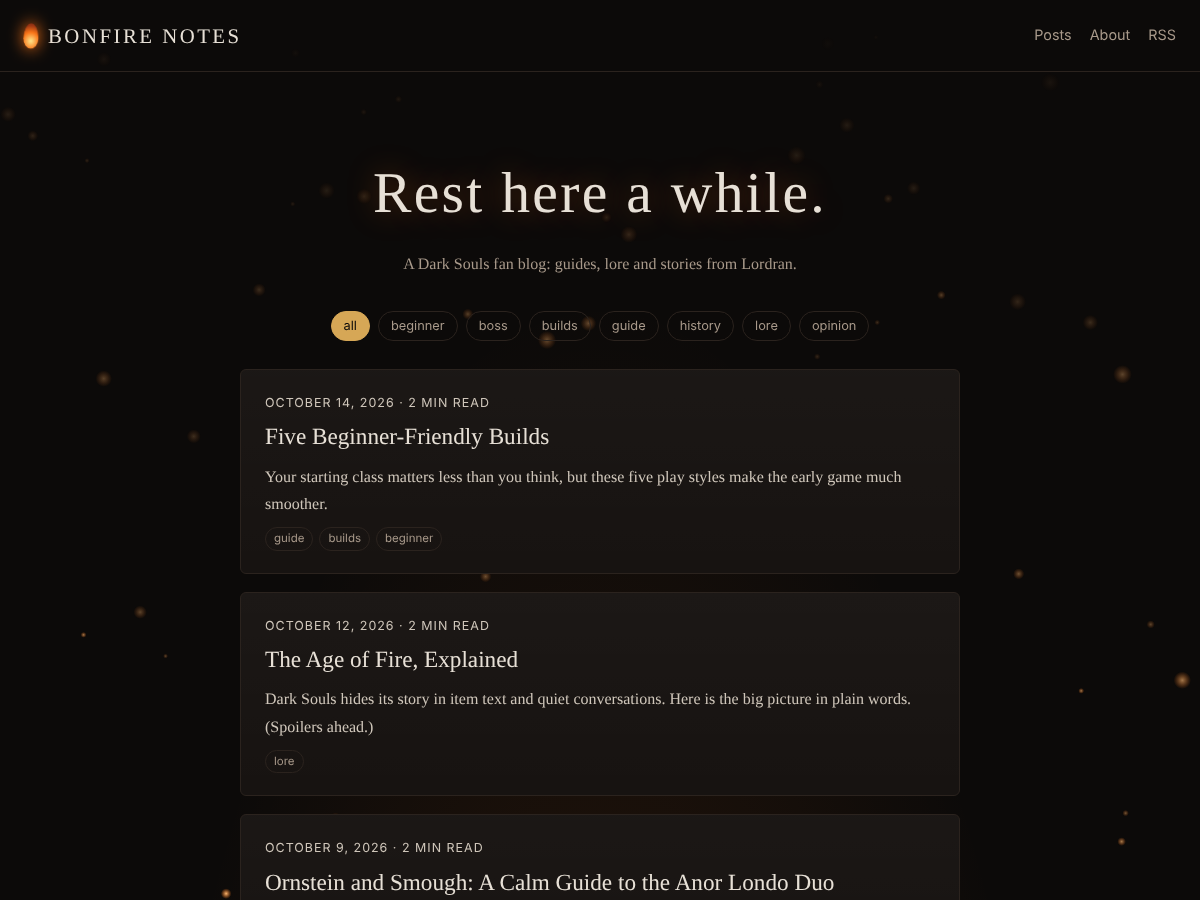
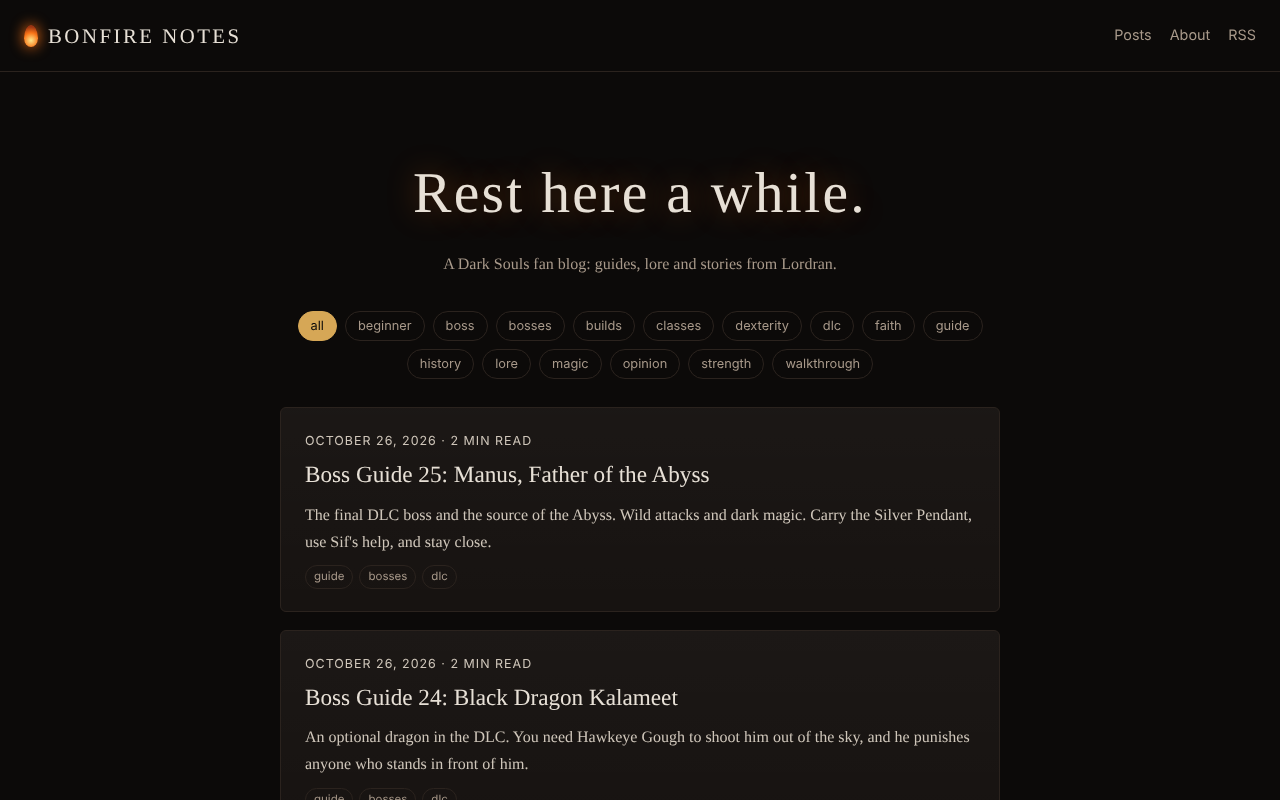
Finish the guides hub: every class, area and boss in route order
The hub now lists all ten class builds, the full route from the Asylum to
Gwyn, and the DLC. README and screenshots updated.

diff --git a/docs/tags/guide.html b/docs/tags/guide.html
@@ -360,7 +360,7 @@
     <article class="card">
       <p class="meta"><time datetime="2026-10-15">October 15, 2026</time> · 6 min read</p>
       <h2><a href="../posts/lordran-guide-hub.html">Start Here: Lordran Guides Hub</a></h2>
-      <p>Every guide on Bonfire Notes in one place, in the order you&#39;ll need them: a build for every starting class, area walkthroughs and boss guides.</p>
+      <p>Every guide on Bonfire Notes in one place, in the order you&#39;ll need them: a build for every starting class, all 20 area walkthroughs and all 25 boss guides, DLC included.</p>
       <p class="tags"><a href="../tags/guide.html" class="tag small">guide</a><a href="../tags/beginner.html" class="tag small">beginner</a></p>
     </article>
     

diff --git a/docs/tags/beginner.html b/docs/tags/beginner.html
@@ -31,7 +31,7 @@
     <article class="card">
       <p class="meta"><time datetime="2026-10-15">October 15, 2026</time> · 6 min read</p>
       <h2><a href="../posts/lordran-guide-hub.html">Start Here: Lordran Guides Hub</a></h2>
-      <p>Every guide on Bonfire Notes in one place, in the order you&#39;ll need them: a build for every starting class, area walkthroughs and boss guides.</p>
+      <p>Every guide on Bonfire Notes in one place, in the order you&#39;ll need them: a build for every starting class, all 20 area walkthroughs and all 25 boss guides, DLC included.</p>
       <p class="tags"><a href="../tags/guide.html" class="tag small">guide</a><a href="../tags/beginner.html" class="tag small">beginner</a></p>
     </article>
     

diff --git a/docs/index.html b/docs/index.html
@@ -363,7 +363,7 @@
     <article class="card">
       <p class="meta"><time datetime="2026-10-15">October 15, 2026</time> · 6 min read</p>
       <h2><a href="./posts/lordran-guide-hub.html">Start Here: Lordran Guides Hub</a></h2>
-      <p>Every guide on Bonfire Notes in one place, in the order you&#39;ll need them: a build for every starting class, area walkthroughs and boss guides.</p>
+      <p>Every guide on Bonfire Notes in one place, in the order you&#39;ll need them: a build for every starting class, all 20 area walkthroughs and all 25 boss guides, DLC included.</p>
       <p class="tags"><a href="./tags/guide.html" class="tag small">guide</a><a href="./tags/beginner.html" class="tag small">beginner</a></p>
     </article>
     

diff --git a/docs/posts/lordran-guide-hub.html b/docs/posts/lordran-guide-hub.html
@@ -4,7 +4,7 @@
   <meta charset="utf-8">
   <meta name="viewport" content="width=device-width, initial-scale=1">
   <title>Start Here: Lordran Guides Hub · Bonfire Notes</title>
-  <meta name="description" content="Every guide on Bonfire Notes in one place, in the order you&#39;ll need them: a build for every starting class, area walkthroughs and boss guides.">
+  <meta name="description" content="Every guide on Bonfire Notes in one place, in the order you&#39;ll need them: a build for every starting class, all 20 area walkthroughs and all 25 boss guides, DLC included.">
   <link rel="stylesheet" href="../static/style.css">
   <link rel="alternate" type="application/rss+xml" title="Bonfire Notes" href="../feed.xml">
 </head>

diff --git a/README.md b/README.md
@@ -6,20 +6,25 @@ A Dark Souls fan blog with beginner guides, boss strategies and plain-language l
 
 **Tech:** Python · Markdown · Jinja2 templates · HTML/CSS · Canvas animation · RSS · `unittest` · GitHub Pages
 
-| Home | Post |
-|---|---|
-| ![Home page](screenshots/home.png) | ![A post](screenshots/post.png) |
+| Home | Guides hub | Boss guide |
+|---|---|---|
+| ![Home page](screenshots/home.png) | ![Guides hub](screenshots/hub.png) | ![A boss guide](screenshots/post.png) |
 
 ## Posts
 
-New: a [guides hub](https://theoyanvno.github.io/bonfire-notes/posts/lordran-guide-hub.html) with four build guides (stats, weapons, armor and rings), walkthroughs of the first four areas and strategies for the first six bosses.
+A full Dark Souls guide, collected in the [guides hub](https://theoyanvno.github.io/bonfire-notes/posts/lordran-guide-hub.html):
+
+- **10 class builds**, one for every starting class: starting stats, weapons, gear and what to level
+- **20 area walkthroughs**, from the Northern Undead Asylum to the Kiln of the First Flame, plus the Artorias of the Abyss DLC
+- **25 boss guides** with each boss's attacks, how to dodge them and a step-by-step strategy
+
+Old build links forward to the new class guides, so bookmarks keep working.
 
 
 - **Why Dark Souls Still Matters**: world design, fair difficulty and its legacy
 - **Your First Hours in Lordran**: 10 beginner tips
 - **Ornstein and Smough**: a calm guide to the Anor Londo duo
 - **The Age of Fire, Explained**: the main story in plain words (spoilers)
-- **Five Beginner-Friendly Builds**: Knight, Pyromancer, Strength, Dexterity and Sorcerer
 
 ## Features
 
@@ -36,7 +41,7 @@ New: a [guides hub](https://theoyanvno.github.io/bonfire-notes/posts/lordran-gui
 | [`build.py`](build.py) | Reads `posts/*.md`, parses front matter, converts Markdown to HTML, renders templates and writes the site to `docs/` |
 | [`templates/`](templates) | Jinja templates: shared layout, post list, post page, About page |
 | [`static/`](static) | Stylesheet and the ember/progress-bar script |
-| [`tests/test_build.py`](tests/test_build.py) | Tests for front matter, slugs, reading time and a full build |
+| [`tests/test_build.py`](tests/test_build.py) | Tests for front matter, slugs, reading time, a full build, moved-post redirects and links between posts |
 
 ## Write a post
 

diff --git a/posts/2026-10-15-lordran-guide-hub.md b/posts/2026-10-15-lordran-guide-hub.md
@@ -2,7 +2,7 @@
 title: Start Here: Lordran Guides Hub
 date: 2026-10-15
 tags: guide, beginner
-summary: Every guide on Bonfire Notes in one place, in the order you'll need them: a build for every starting class, area walkthroughs and boss guides.
+summary: Every guide on Bonfire Notes in one place, in the order you'll need them: a build for every starting class, all 20 area walkthroughs and all 25 boss guides, DLC included.
 ---
 
 New to Dark Souls? This page lists every guide on the blog in the order you will need them. Pick a class, then follow the walkthroughs and boss guides side by side, from the Asylum to the Kiln of the First Flame.
